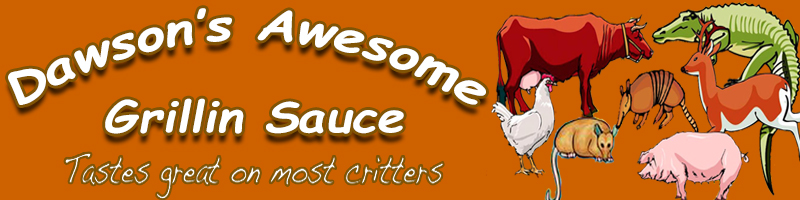
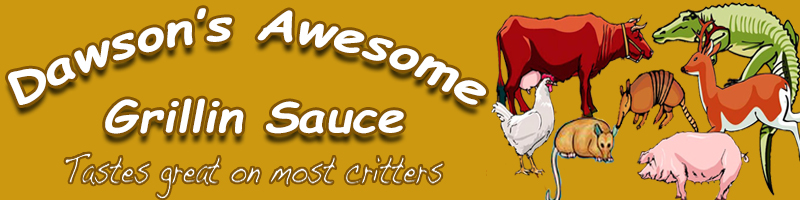
Reworked files and images

diff --git a/shop.html b/shop.html
@@ -7,7 +7,7 @@
     
     <style>
         body {
-            background: linear-gradient(180deg, hsl(25, 98%, 20%) 0%, #914002 15%, #c44700 90%);
+            background: linear-gradient(180deg, lch(48.73% 58.22 74.43) 0%, hwb(39 0% 33%) 15%, hwb(34 0% 40%) 90%);
             background-attachment: fixed;
             color: #ffffff;
             font-family: 'Inter', sans-serif;
@@ -176,13 +176,13 @@
     <main>
         <div class="shop-header">
             <h1>The Lineup</h1>
-            <p>From mild heat to total mayhem.</p>
+            <p>TBD</p>
         </div>
 
         <div class="product-grid">
             <div class="product-card">
-                <img src="DAS.jpg" alt="Dawson's Original Grillin Sauce">
-                <h3>[Original Sauce](http://googleusercontent.com/shopping_content/1_link)</h3>
+                <img src="Transparent Sauce.png" alt="Dawson's Original Hot Sauce">
+                <h3>[Original Grillin Sauce](http://googleusercontent.com/shopping_content/1_link)</h3>
                 <p>Tangy, rich, and smooth.</p>
                 <div class="product-price">$12.00</div>
                 <button class="add-btn">Add to Cart</button>

diff --git a/index.html b/index.html
@@ -7,7 +7,7 @@
     
     <style>
         body {
-            background: linear-gradient(180deg, hsl(25, 98%, 20%) 0%, #914002 15%, #c44700 90%);
+            background: linear-gradient(180deg, lch(48.73% 58.22 74.43) 0%, hwb(39 0% 33%) 15%, hwb(34 0% 40%) 90%);
             background-attachment: fixed;
             color: #ffffff;
             font-family: 'Inter', sans-serif;
@@ -161,7 +161,7 @@
         </div>
 
         <div class="product-image-container">
-            <img src="DAS.jpg" alt="Dawson's Awesome Sauce Bottle" class="product-image">
+            <img src="Transparent Sauce.png" alt="Dawson's Awesome Sauce Bottle" class="product-image">
         </div>
     </main>
 

diff --git a/contact.html b/contact.html
@@ -7,7 +7,7 @@
     
     <style>
         body {
-            background: linear-gradient(180deg, hsl(25, 98%, 20%) 0%, #914002 15%, #c44700 90%);
+            background: linear-gradient(180deg, lch(48.73% 58.22 74.43) 0%, hwb(39 0% 33%) 15%, hwb(34 0% 40%) 90%);
             background-attachment: fixed;
             color: #ffffff;
             font-family: 'Inter', sans-serif;

diff --git a/story.html b/story.html
@@ -7,7 +7,7 @@
     
     <style>
         body {
-            background: linear-gradient(180deg, hsl(25, 98%, 20%) 0%, #914002 15%, #c44700 90%);
+            background: linear-gradient(180deg, lch(48.73% 58.22 74.43) 0%, hwb(39 0% 33%) 15%, hwb(34 0% 40%) 90%);
             background-attachment: fixed;
             color: #ffffff;
             font-family: 'Inter', sans-serif;
